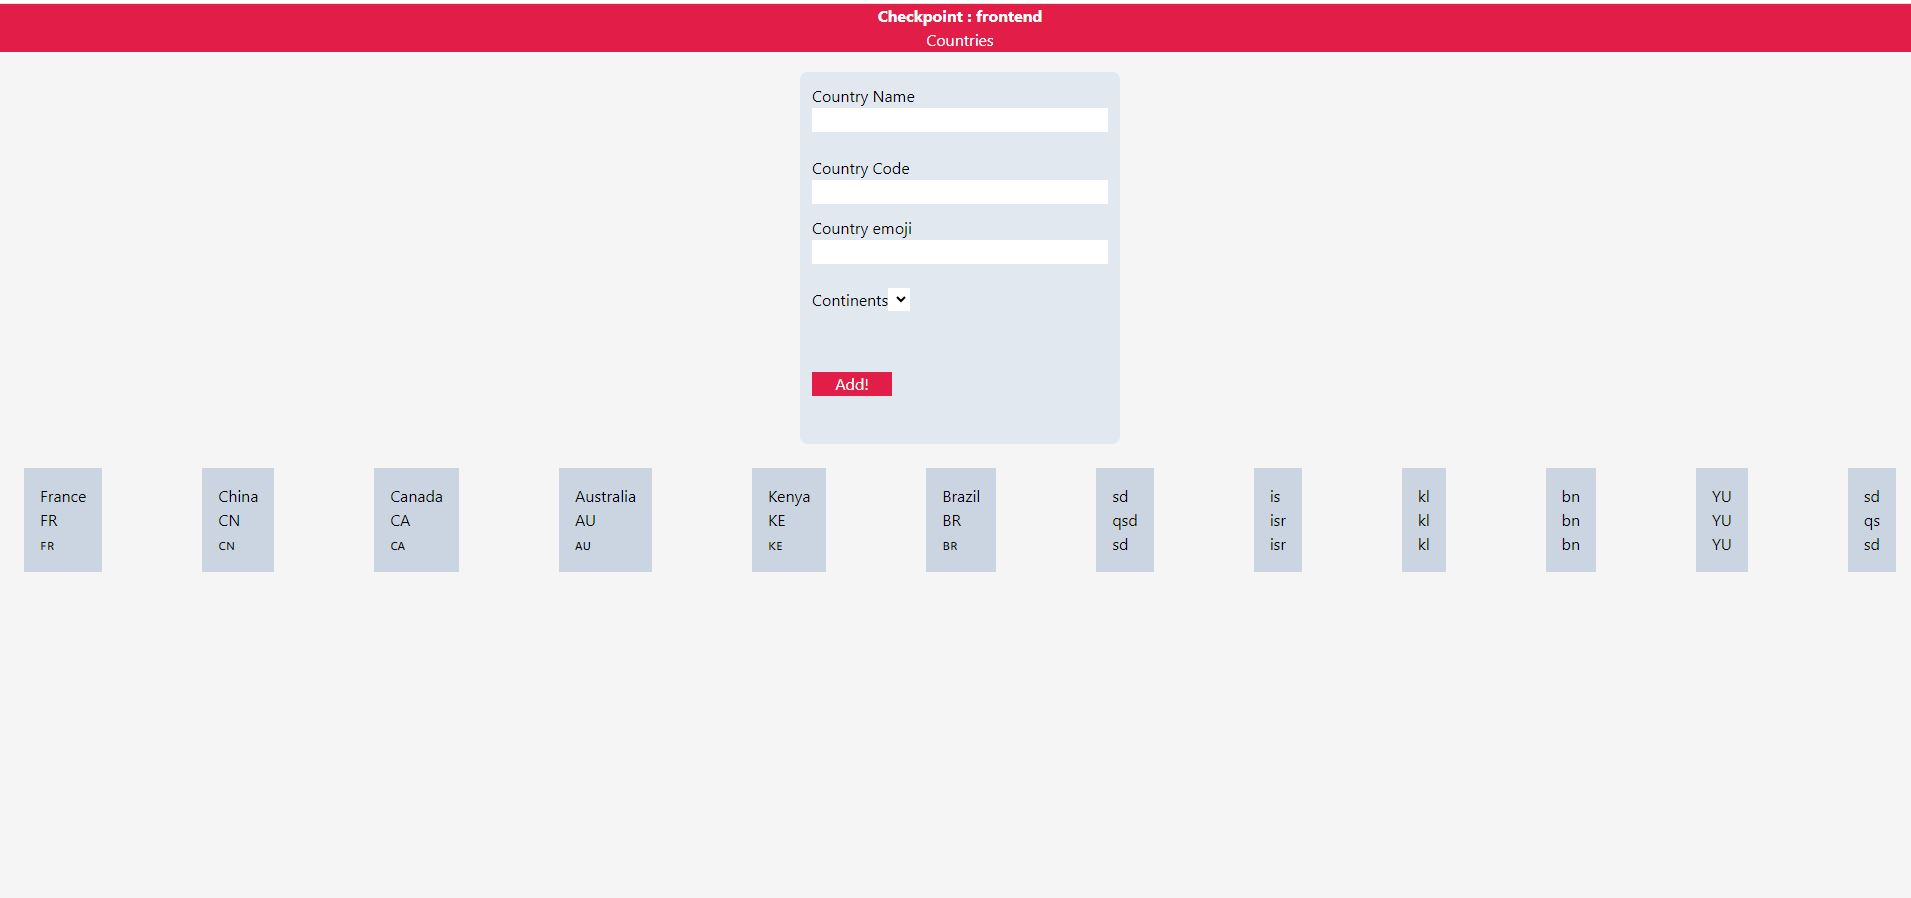
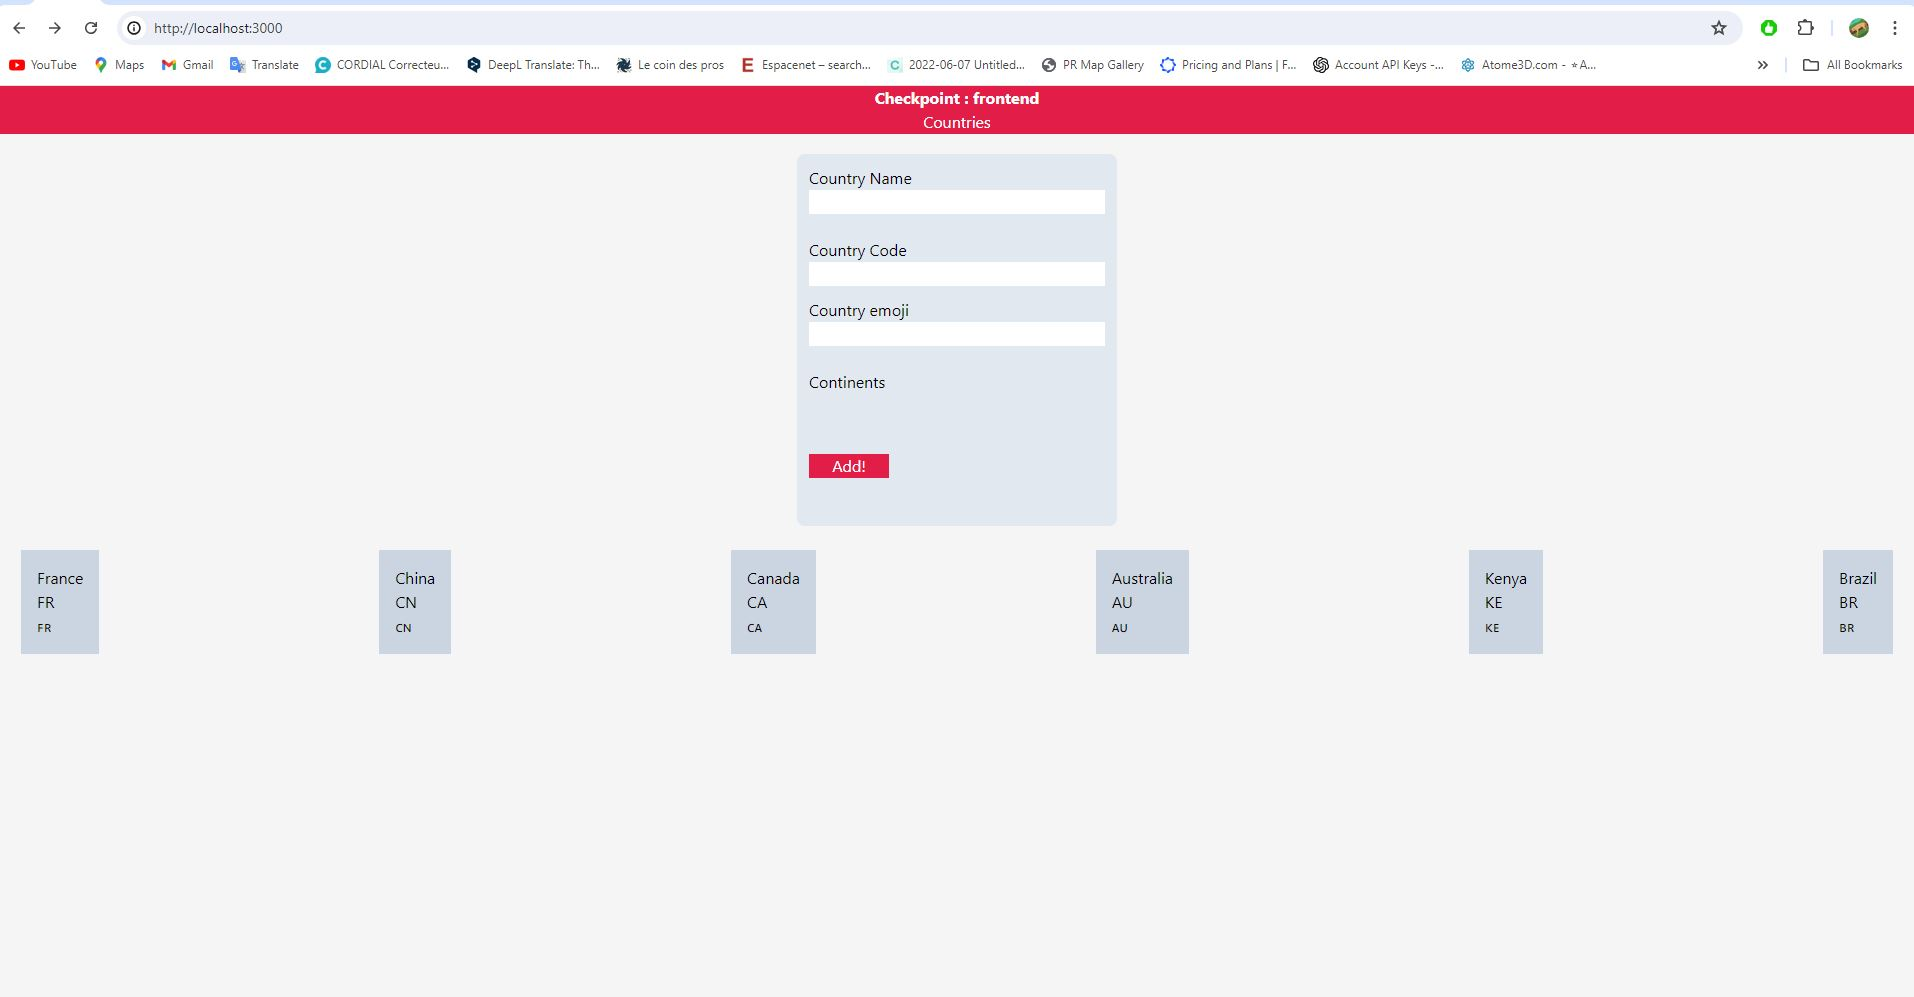
added screenshots

diff --git a/frontend/src/pages/index.tsx b/frontend/src/pages/index.tsx
@@ -2,7 +2,7 @@
 // import Countries from "@/components/countries";
 import CountiresCard from "@/components/Countries";
 import Header from "@/components/Header";
-import { useAddCountryMutation, useContinentsQuery, useCountriesQuery } from "@/graphql/generated/schema";
+import { ObjectId, useAddCountryMutation, useContinentsQuery, useCountriesQuery } from "@/graphql/generated/schema";
 import { graphQLResultHasError } from "@apollo/client/utilities";
 import { FormEvent, useState } from "react";
 
@@ -27,7 +27,7 @@ export default function Home() {
 
 
     try {
-      const res = await addCountry({ variables: { data: formJSON } });
+      const res = await addCountry({ variables: { data: formJSON  } });
       console.log({ res });
       alert("country added!");
     } catch (e: any) {
@@ -90,13 +90,13 @@ export default function Home() {
             <label className="label" htmlFor="continenet">
               <span className="label-text">Continents</span>
             </label>
-            <select id="continent-select" name="continent">
-            {/* {dataContinents?.continents.map((continent) => (
+            {/* <select id="continent" name="continent">
+            {dataContinents?.continents.map((continent) => (
   <option key={continent.id} value={continent.id}>
     {continent.name}
   </option>
-        ))} */}
-      </select>
+        ))}
+      </select> */}
           </div>
         </div>
 

diff --git a/frontend/src/pages/countries/[code].tsx b/frontend/src/pages/countries/[code].tsx
@@ -5,7 +5,10 @@ import Link from "next/link";
 import router, { useRouter } from "next/router";
 import { FormEvent, useState } from "react";
 
+
+
 export default function CountiresCard() {
+    
     const router = useRouter();
     // const { code } = router.query;
     const { code }:any = router.query;
@@ -17,15 +20,16 @@ export default function CountiresCard() {
     
   });
 console.log(data);
-
-
   return( 
     <>
     <Header></Header>
-<div>
+    <div className="flex justify-center mt-9">
+
+<div className="bg-slate-300  p-8 rounded-lg">
 <h1>{data?.country.name}</h1>
 <p>{data?.country.code}</p>
 </div>
+    </div>
     </>
 
   );
